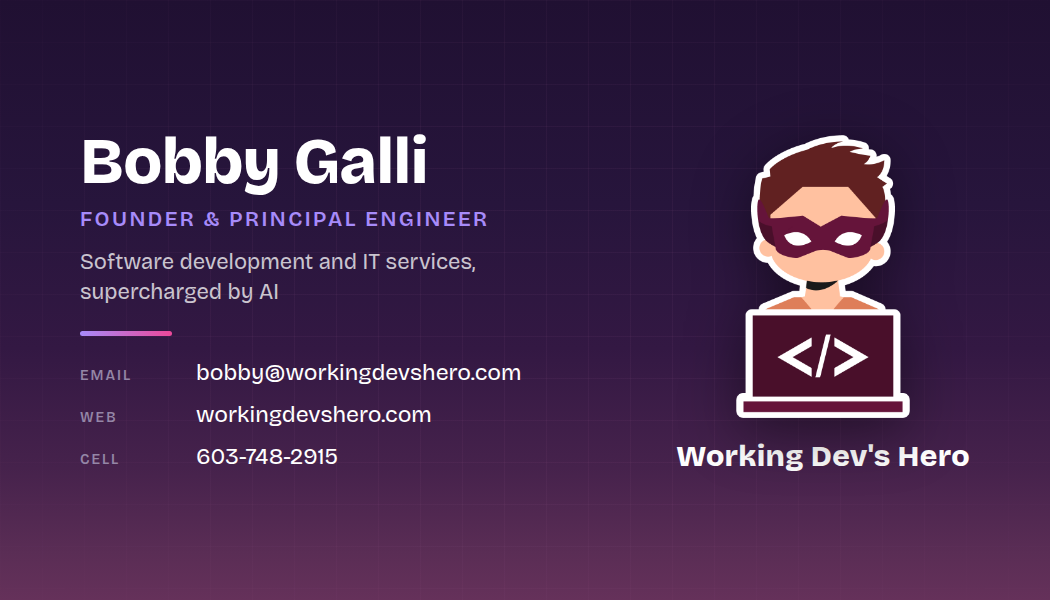
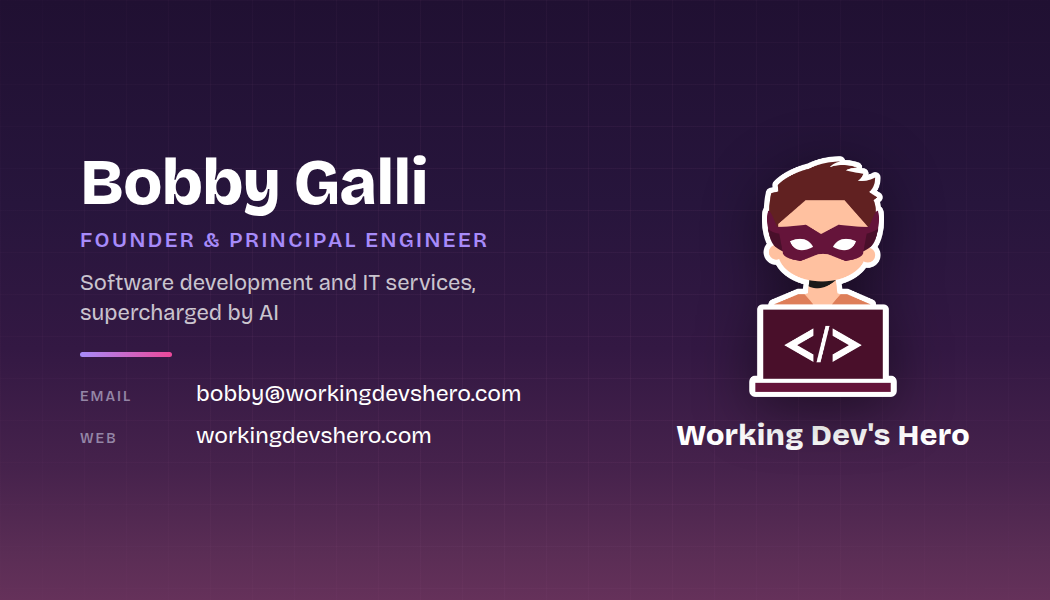
feat(brand): bleed + optional phone for the business card
- Add --bleed (0.125in) and --out to the build for print-ready files.
- The Cell row is injected at build time via CARD_PHONE, so a personal number
  never lands in the repo; the committed artwork has no Cell row.
- Size the logo column to the text column in the template so the two line up
  for any contact list length.

Changed region(s): [[0.061, 0.21, 0.4876, 0.78], [0.64, 0.21, 0.9448, 0.78], [0.1829, 0.6, 0.5181, 0.78]]

diff --git a/scripts/business-card.html b/scripts/business-card.html
@@ -3,7 +3,7 @@
   Source for the Working Dev's Hero business card.
 
   Two sides:
-    front — contact details, on the brand purple (grid + glow)
+    front — contact details, on the brand purple (grid + gradient)
     back  — the homepage hero scene, full bleed, no text
 
   The scene side is the rooftop art from src/assets/images/hero-scene-wide.png,
@@ -13,8 +13,10 @@
   screenshot this by hand unless you are tuning. The card is a standard US size
   (3.5in x 2in) at 300 DPI, so the PNGs come out exactly 1050x600.
 
-  Add ?side=front | ?side=back to render one side, or ?side=sheet for both side
-  by side (the tuning view). Add ?guides to overlay the trim and safe margins.
+  Query params:
+    side=front | back | sheet   which side to render (default front)
+    phone=<number>              add a Cell row; omitted from the repo by default
+    guides                      overlay the trim and safe margins while tuning
 -->
 <html lang="en">
 <head>
@@ -129,7 +131,7 @@
     /* Nudged down so the logo's top edge lines up with the name's. */
     transform: translateY(4px);
   }
-  .front-right .mark { height: 283px; width: auto; filter: drop-shadow(0 12px 30px rgba(0, 0, 0, 0.45)); }
+  .front-right .mark { height: 240px; width: auto; filter: drop-shadow(0 12px 30px rgba(0, 0, 0, 0.45)); }
   .front-right .word { font-size: 30px; font-weight: 800; letter-spacing: 0.3px; white-space: nowrap; color: #fff; }
 
   /* ---------- Back: hero scene, full bleed ---------- */
@@ -166,7 +168,6 @@
         <ul class="contact">
           <li><span class="k">Email</span><span class="v">bobby@workingdevshero.com</span></li>
           <li><span class="k">Web</span><span class="v">workingdevshero.com</span></li>
-          <li><span class="k">Cell</span><span class="v">603-748-2915</span></li>
         </ul>
       </div>
       <div class="front-right">
@@ -187,6 +188,33 @@
     document.body.dataset.side = side;
     if (side === 'sheet') document.body.classList.add('sheet');
     if (params.has('guides')) document.body.classList.add('guides');
+
+    // A cell number is injected at build time and deliberately kept out of the
+    // source, so the repo never carries it. Absent -> no Cell row.
+    const phone = params.get('phone');
+    if (phone) {
+      const li = document.createElement('li');
+      li.innerHTML = '<span class="k">Cell</span><span class="v"></span>';
+      li.querySelector('.v').textContent = phone;
+      document.querySelector('.contact').appendChild(li);
+    }
+
+    // Size the logo so the right column spans the same height as the text
+    // column, which lines their top and bottom edges up.
+    const align = () => {
+      const left = document.querySelector('.front-left');
+      const right = document.querySelector('.front-right');
+      if (!left || !right) return;
+      const mark = right.querySelector('.mark');
+      const word = right.querySelector('.word');
+      const gap = 20;
+      const target = left.getBoundingClientRect().height;
+      const markH = Math.max(120, Math.round(target - gap - word.getBoundingClientRect().height));
+      mark.style.height = markH + 'px';
+    };
+    align();
+    if (document.fonts && document.fonts.ready) document.fonts.ready.then(align);
+    window.addEventListener('load', align);
   </script>
 </body>
 </html>

diff --git a/brand/business-cards/README.md b/brand/business-cards/README.md
@@ -21,7 +21,27 @@ homepage hero uses (`src/components/home/Hero.astro`). Tune the crop with the
 `--scene-pos` variable in the template (`100%` = right edge flush; lower values
 push the hero further right).
 
-Print notes: the artwork has no bleed. Keep ~1/8in of the edge clear (the layout
-already pads to ~1/4in), and tell the printer "3.5 × 2in, no bleed" or let them
-scale to fit. To preview the source with trim/safe guides, open
-`scripts/business-card.html?side=sheet&guides` from a local server.
+## Print files
+
+Add 0.125in bleed on every side for a printer (3.75in × 2.25in output):
+
+```bash
+node scripts/build-business-card.mjs --bleed --out .tmp/print
+```
+
+## The cell number
+
+The Cell row is optional and injected at build time, so a personal number never
+lands in the repo:
+
+```bash
+CARD_PHONE=555-010-0000 node scripts/build-business-card.mjs --bleed --out .tmp/print
+```
+
+Without `CARD_PHONE` the row simply isn't rendered, which is what the committed
+`brand/business-cards/` artwork shows.
+
+Print notes: no crop marks are added. Tell the printer "3.5 × 2in, 0.125in
+bleed" or let them place the 1050 × 600 art themselves. To preview the source
+with trim/safe guides, open `scripts/business-card.html?side=sheet&guides` from a
+local server.
